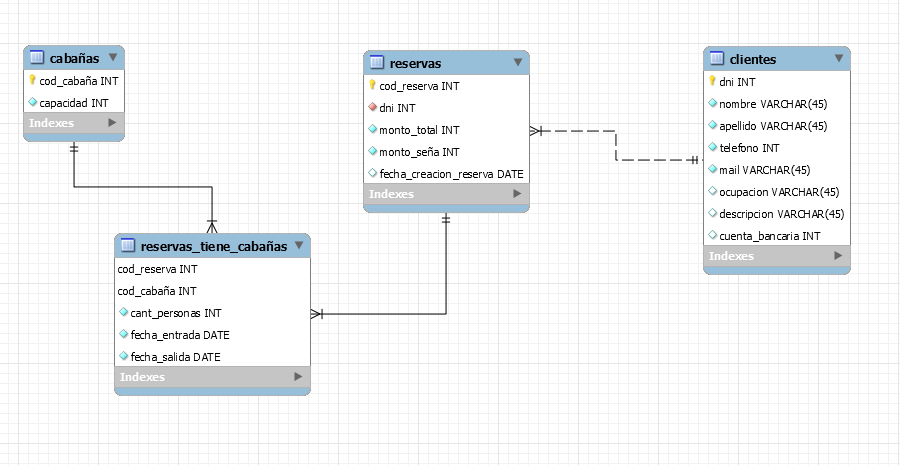
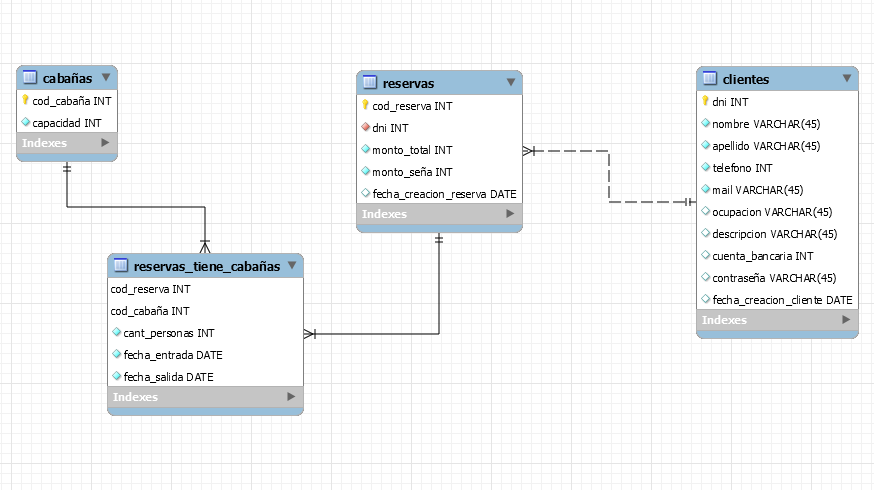
..

diff --git a/database/models/Cliente.js b/database/models/Cliente.js
@@ -55,6 +55,15 @@ module.exports = (sequelize,dataTypes)=>{
 			comment: null,
 			field: "contraseña"
 		},
+		fecha_creacion_cliente: {
+			type: dataTypes.DATEONLY,
+			allowNull: false,
+			defaultValue: null,
+			primaryKey: false,
+			autoIncrement: false,
+			comment: null,
+			field: "fecha_creacion_cliente"
+		},
 		ocupacion: {
 			type: dataTypes.STRING(45),
 			allowNull: true,
